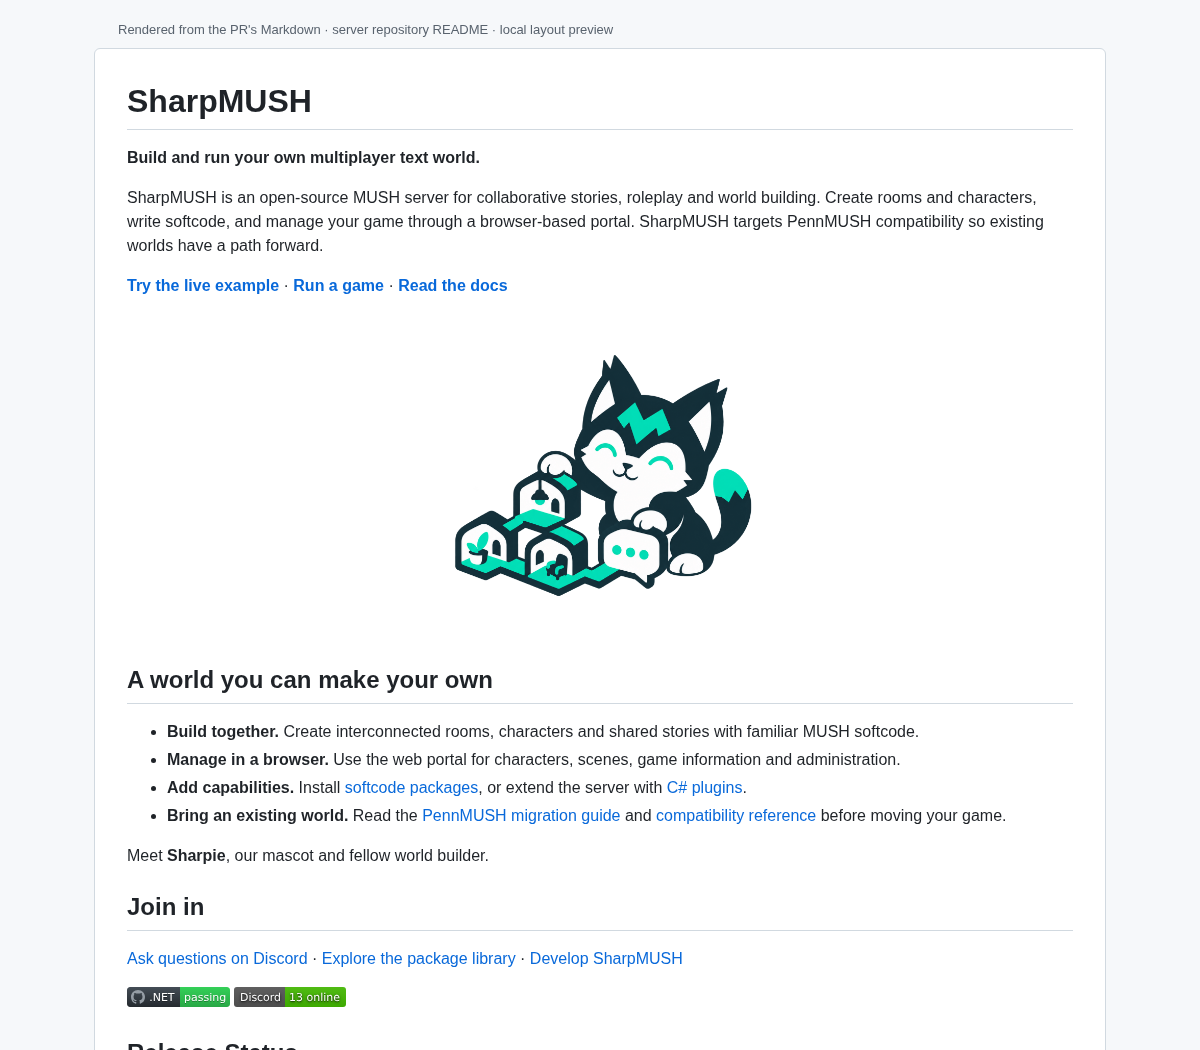
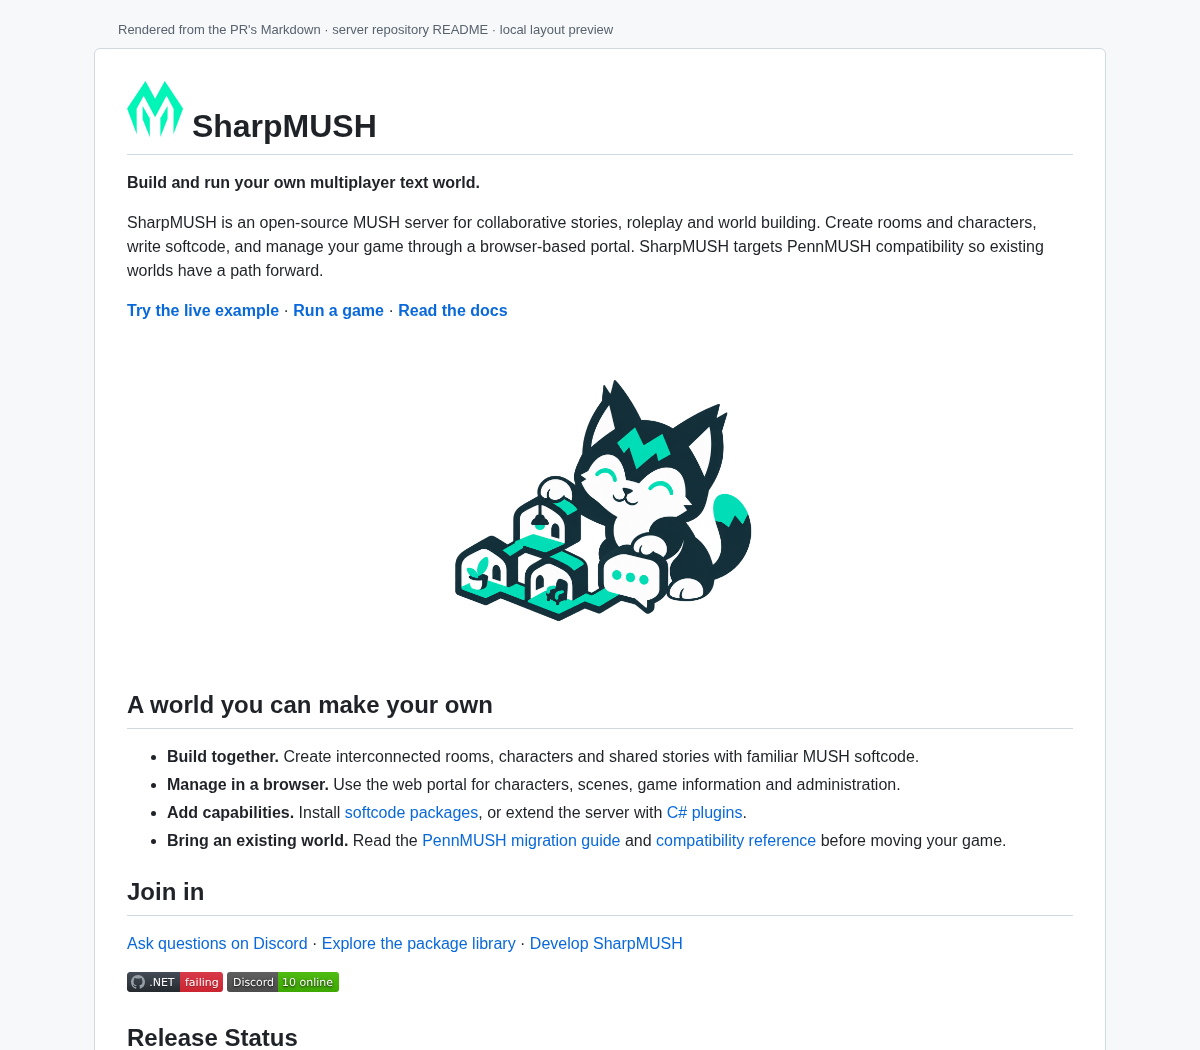
docs: restore canonical SharpMUSH product mark

Changed region(s): [[0.0925, 0.64, 0.8325, 1.0], [0.0925, 0.061, 0.8633, 0.3048], [0.37, 0.3352, 0.6475, 0.6095]]

diff --git a/assets/branding/sharpie/marketing/share-card.html b/assets/branding/sharpie/marketing/share-card.html
@@ -1,3 +1,3 @@
 <!doctype html><html lang="en"><meta charset="utf-8"><title>SharpMUSH social preview source</title><style>
-*{box-sizing:border-box}body{margin:0;background:white;color:#17333e;font-family:Arial,Helvetica,sans-serif}.card{width:1280px;height:640px;position:relative;padding:58px 62px 55px 68px;display:grid;grid-template-columns:650px 1fr;gap:10px;border-bottom:16px solid #00ddb3;overflow:hidden}.copy{display:flex;flex-direction:column;position:relative;z-index:1}.brand{font-size:32px;line-height:1.2;font-weight:700;margin:0 0 40px}.brand::before{content:"";display:inline-block;vertical-align:middle;width:12px;height:29px;margin-right:14px;background:#00ddb3}h1{font-size:66px;line-height:1.05;letter-spacing:-2px;margin:0 0 26px;font-weight:750}p{margin:0;font-size:22px;line-height:1.4}.domain{font-size:19px;margin-top:auto;padding-top:20px}.art{align-self:center;width:100%;height:475px;object-fit:contain;display:block}
-</style><main class="card"><section class="copy"><p class="brand">SharpMUSH</p><h1>Build your own<br>multiplayer<br>text world.</h1><p>Collaborative stories. A world you control.</p><p class="domain">sharpmush.com</p></section><img class="art" src="sharpie-doorway.png" alt="" /></main></html>
+*{box-sizing:border-box}body{margin:0;background:white;color:#17333e;font-family:Arial,Helvetica,sans-serif}.card{width:1280px;height:640px;position:relative;padding:58px 62px 55px 68px;display:grid;grid-template-columns:650px 1fr;gap:10px;border-bottom:16px solid #00ddb3;overflow:hidden}.copy{display:flex;flex-direction:column;position:relative;z-index:1}.brand{font-size:32px;line-height:1.2;font-weight:700;margin:0 0 40px}.brand-logo{width:36px;height:36px;object-fit:contain;vertical-align:middle;margin-right:14px}h1{font-size:66px;line-height:1.05;letter-spacing:-2px;margin:0 0 26px;font-weight:750}p{margin:0;font-size:22px;line-height:1.4}.domain{font-size:19px;margin-top:auto;padding-top:20px}.art{align-self:center;width:100%;height:475px;object-fit:contain;display:block}
+</style><main class="card"><section class="copy"><p class="brand"><img class="brand-logo" src="sharpmush-logo.svg" alt="" />SharpMUSH</p><h1>Build your own<br>multiplayer<br>text world.</h1><p>Collaborative stories. A world you control.</p><p class="domain">sharpmush.com</p></section><img class="art" src="sharpie-doorway.png" alt="" /></main></html>

diff --git a/README.md b/README.md
@@ -1,4 +1,4 @@
-# SharpMUSH
+# <img src="Solution%20Files/Logo.svg" width="56" height="56" alt="" /> SharpMUSH
 
 **Build and run your own multiplayer text world.**
 
@@ -16,8 +16,6 @@ SharpMUSH is an open-source MUSH server for collaborative stories, roleplay and 
 - **Manage in a browser.** Use the web portal for characters, scenes, game information and administration.
 - **Add capabilities.** Install [softcode packages](https://github.com/SharpMUSH/SharpMUSH.Packages), or extend the server with [C# plugins](https://sharpmush.com/guides/plugins/).
 - **Bring an existing world.** Read the [PennMUSH migration guide](https://sharpmush.com/guides/pennmush-migration/) and [compatibility reference](https://sharpmush.com/reference/compatibility/) before moving your game.
-
-Meet **Sharpie**, our mascot and fellow world builder.
 
 ## Join in
 

diff --git a/assets/branding/sharpie/marketing/README.md b/assets/branding/sharpie/marketing/README.md
@@ -7,3 +7,5 @@ Palette authority: mint green `#00DDB3`, ink `#17333E`, white. Keep flat mascot 
 ## Activate the repository preview after merge
 
 Open this repository's **Settings → General → Social preview → Edit → Upload an image** and choose `social-preview.png` from this folder. A PR can deliver the file but cannot activate this GitHub setting. The exported PNG must stay under 1 MB. See [GitHub social-preview guidance](https://docs.github.com/en/repositories/managing-your-repositorys-settings-and-features/customizing-your-repository/customizing-your-repositorys-social-media-preview).
+
+The original SharpMUSH M remains the primary brand identifier. `sharpmush-logo.svg` is an unchanged copy of the repository’s canonical logo used in the share-card source. Sharpie is a supporting mascot, not a replacement for the M.
